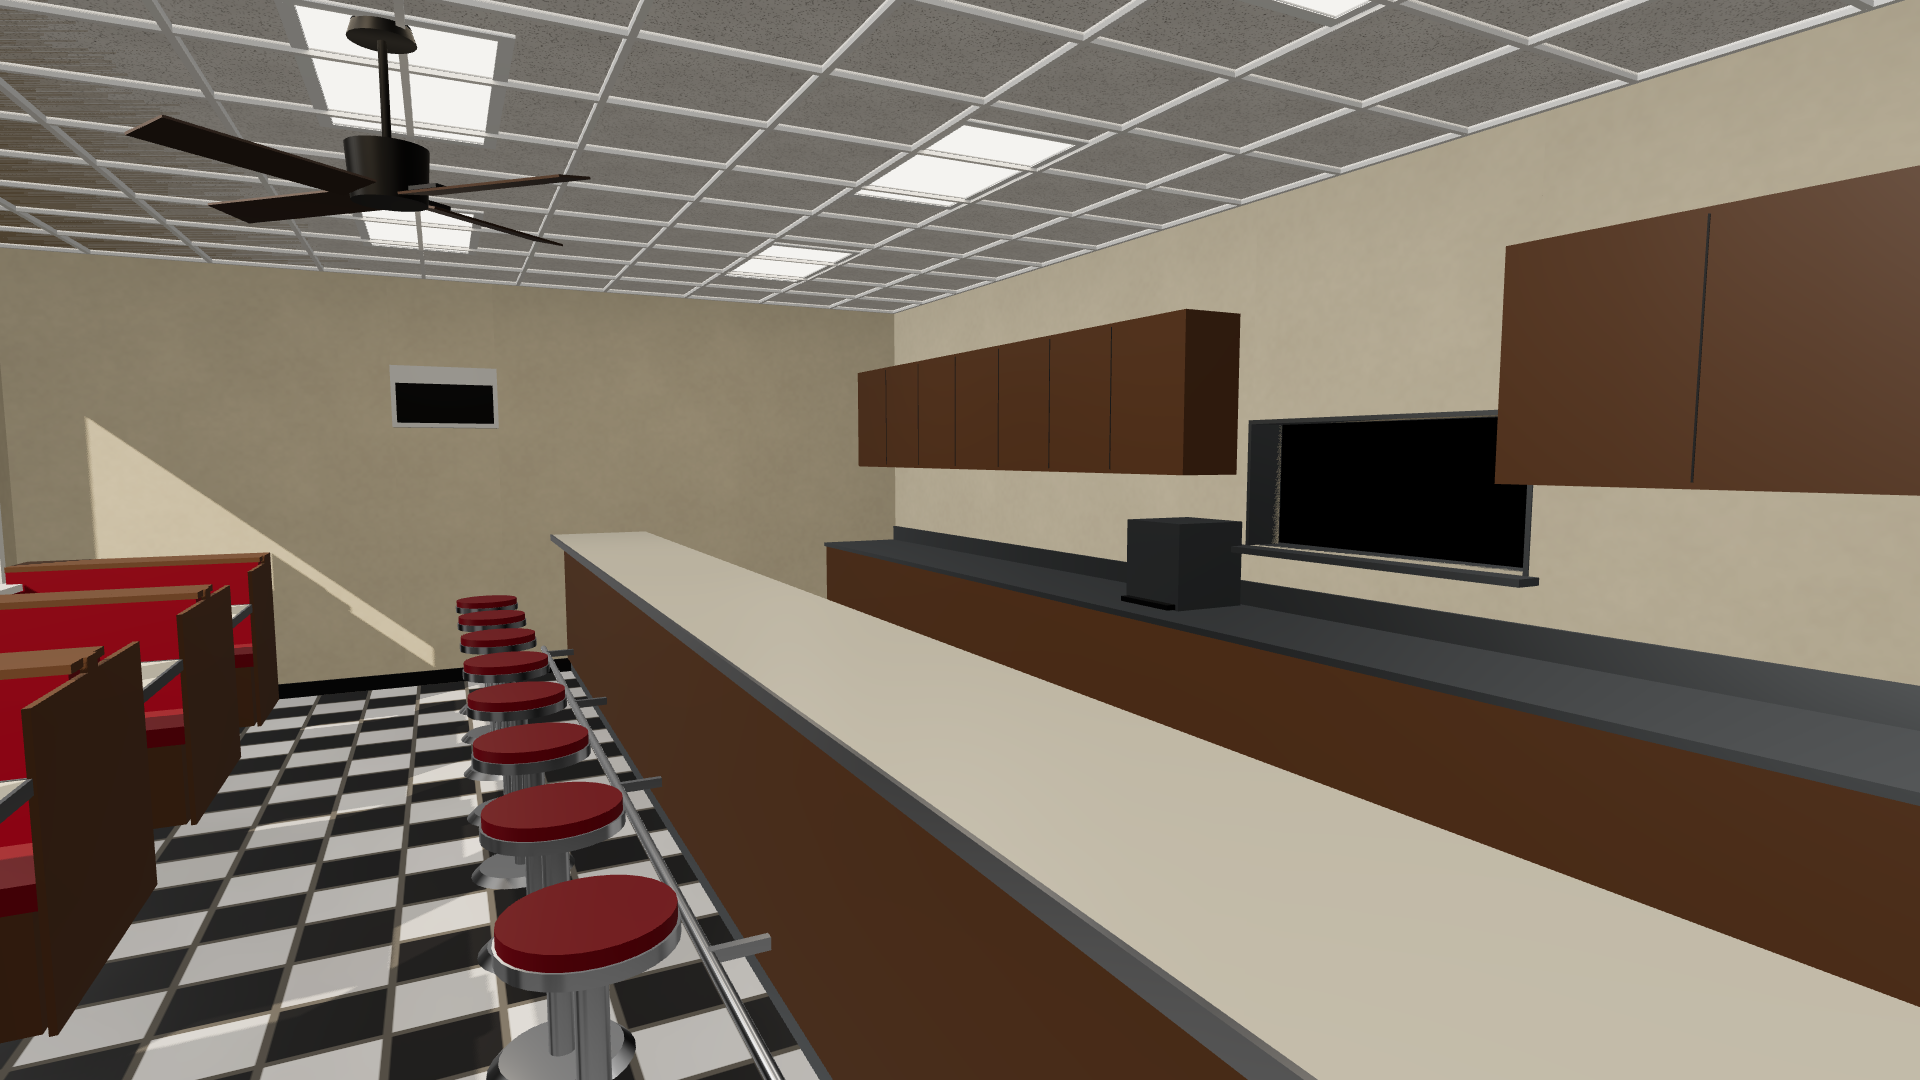
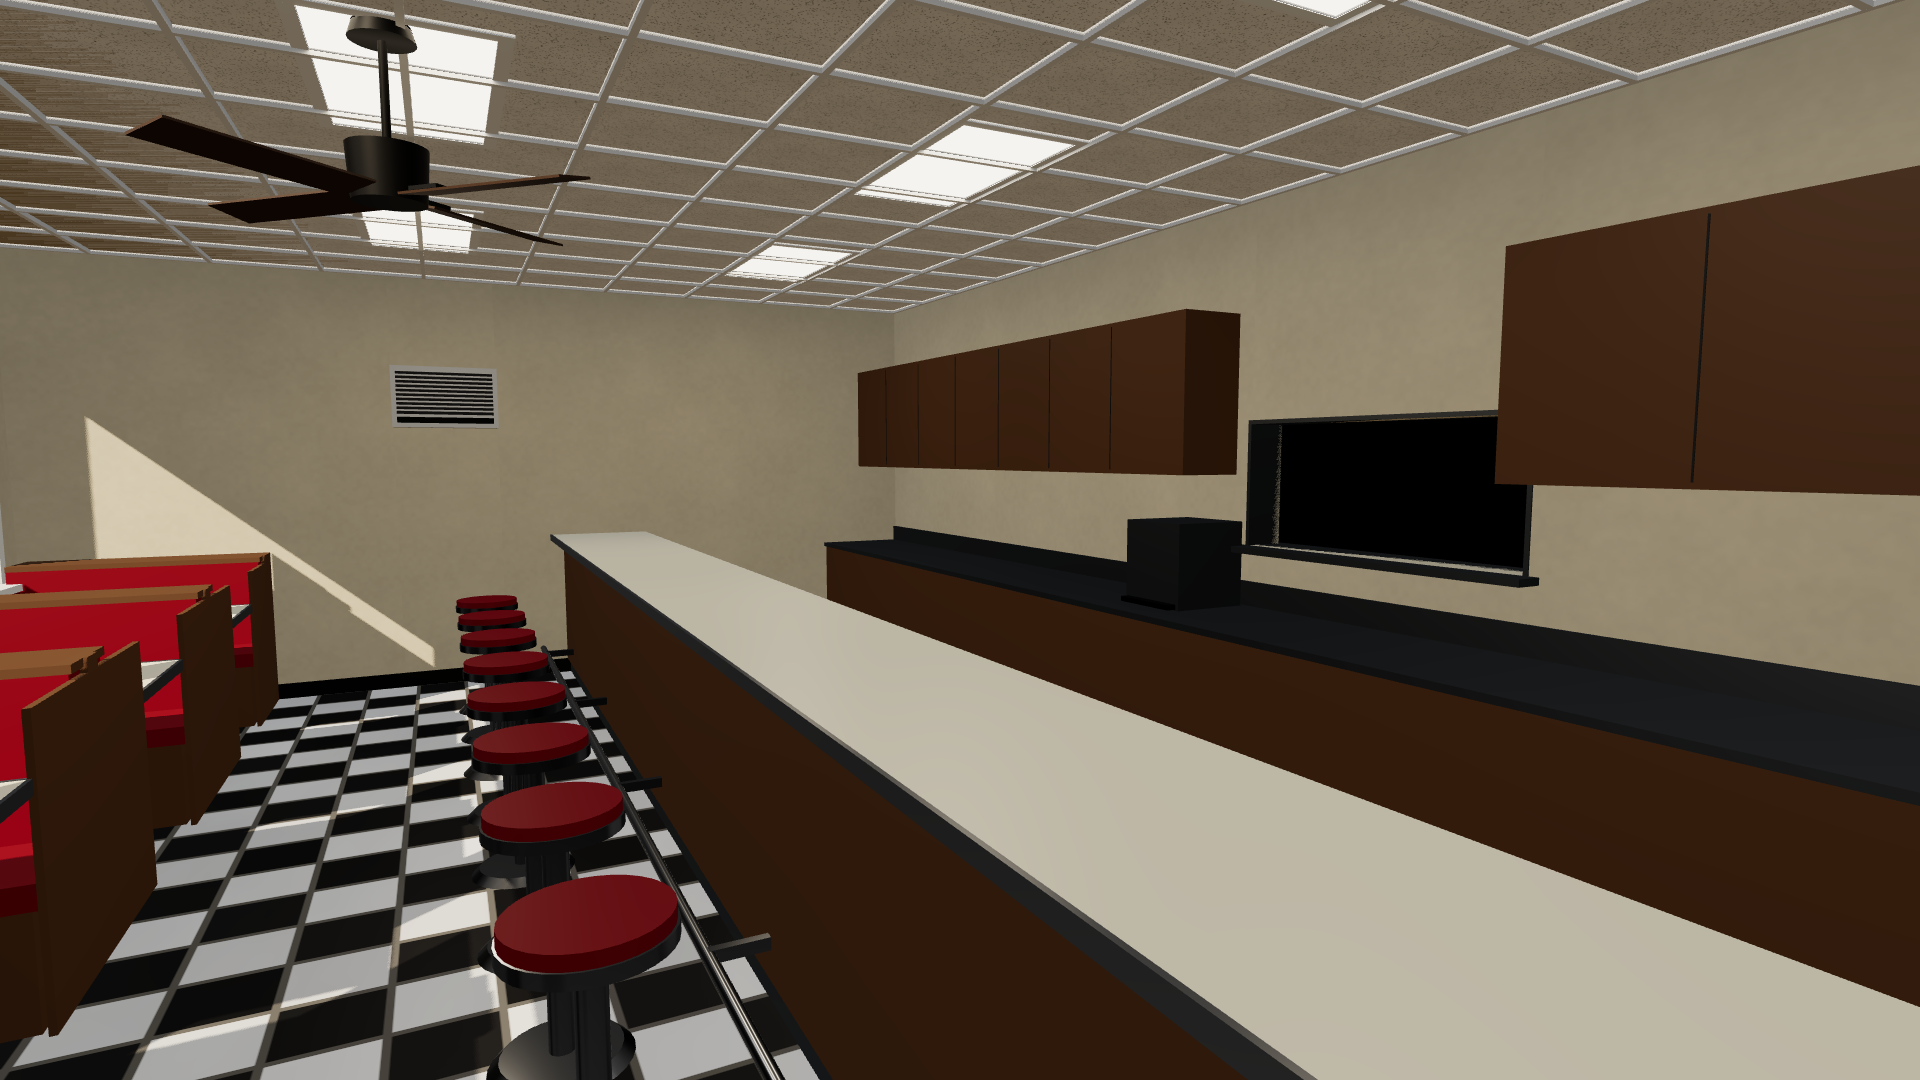
System 1: diner interior geometry and floor plan

diff --git a/src/scene/Lighting.ts b/src/scene/Lighting.ts
@@ -16,7 +16,7 @@ export function buildLighting(scene: THREE.Scene): LightingResult {
   const el = THREE.MathUtils.degToRad(35);
   const az = THREE.MathUtils.degToRad(38);
   const dir = new THREE.Vector3(Math.sin(az) * Math.cos(el), Math.sin(el), Math.cos(az) * Math.cos(el));
-  const sun = new THREE.DirectionalLight(0xfff1dc, 3.6);
+  const sun = new THREE.DirectionalLight(0xfff1dc, 5.0);
   sun.position.copy(dir).multiplyScalar(30).add(new THREE.Vector3(0, 1.2, 0));
   sun.target.position.set(0, 1.2, 0);
   sun.castShadow = true;
@@ -33,16 +33,22 @@ export function buildLighting(scene: THREE.Scene): LightingResult {
   sun.shadow.radius = 2;
   scene.add(sun, sun.target);
 
+  // `?nofill` renders the sun alone — a diagnostic for checking where direct
+  // light actually lands, used by the capture harness during review.
+  if (new URLSearchParams(location.search).has("nofill")) return { sun };
+
   // Sky / ground fill. Deliberately low: a real interior at 8 AM sits several
   // stops under the sunlit patches, and that contrast is the picture.
-  const hemi = new THREE.HemisphereLight(0xcfe0f5, 0x8f8272, 0.22);
+  // The warm ground colour stands in for bounce off the sunlit floor and
+  // tables until System 4 does it properly.
+  const hemi = new THREE.HemisphereLight(0xcfe0f5, 0xa8977f, 1.0);
   scene.add(hemi);
-  scene.add(new THREE.AmbientLight(0xfff2e2, 0.05));
+  scene.add(new THREE.AmbientLight(0xfff2e2, 0.1));
 
   // Fluorescent troffers: low-intensity rect area lights under each lens.
   RectAreaLightUniformsLib.init();
   for (const [x, z] of CEILING.troffers) {
-    const l = new THREE.RectAreaLight(0xfff0d8, 1.8, CEILING.troffer.w - 0.09, CEILING.troffer.d - 0.09);
+    const l = new THREE.RectAreaLight(0xfff0d8, 2.8, CEILING.troffer.w - 0.09, CEILING.troffer.d - 0.09);
     l.position.set(x, ROOM.height - 0.01, z);
     l.lookAt(x, 0, z);
     scene.add(l);

diff --git a/src/scene/Shell.ts b/src/scene/Shell.ts
@@ -126,9 +126,13 @@ export function buildShell(parent: THREE.Group, pal: Palette): { colliders: Merg
     const x0 = -halfX - 0.45, x1 = -halfX + 0.15;
     const z0 = acOpening.a0, z1 = acOpening.a1, y0 = acOpening.y0, y1 = acOpening.y1;
     b.box(pal.acUnit, [x0, y0, z0], [x1, y1, z1]);
-    // Interior face: dark louvre grille inset a few mm.
-    b.box(pal.darkMetal, [x1 - 0.004, y0 + 0.03, z0 + 0.03], [x1 + 0.004, y1 - 0.12, z1 - 0.03]);
-    b.box(pal.darkMetal, [x1 - 0.004, y0 + 0.03, z0 + 0.03], [x1 + 0.004, y0 + 0.06, z1 - 0.03]);
+    // Interior face: recessed grey louvre grille with horizontal slats, and a
+    // control strip along the bottom.
+    b.box(pal.kickPanel, [x1 - 0.004, y0 + 0.09, z0 + 0.03], [x1 + 0.002, y1 - 0.03, z1 - 0.03]);
+    for (let y = y0 + 0.11; y < y1 - 0.04; y += 0.03) {
+      b.box(pal.acUnit, [x1 + 0.002, y, z0 + 0.03], [x1 + 0.012, y + 0.012, z1 - 0.03]);
+    }
+    b.box(pal.darkMetal, [x1 - 0.002, y0 + 0.03, z0 + 0.03], [x1 + 0.004, y0 + 0.07, z1 - 0.03]);
   }
 
   /* ---------------- window frames, glass, sills, casing ---------------- */

diff --git a/src/scene/Diner.ts b/src/scene/Diner.ts
@@ -38,10 +38,11 @@ export class Diner {
     this.sun = buildLighting(scene).sun;
 
     // Neutral procedural environment so chrome and glass have something to
-    // reflect. Kept dim: the sun must stay the dominant source.
+    // reflect. RoomEnvironment is BRIGHT: at 0.25 it out-lit the sun and
+    // flattened every frame (measured with ?nofill). Reflection-only level here.
     const pmrem = new THREE.PMREMGenerator(renderer);
     scene.environment = pmrem.fromScene(new RoomEnvironment(), 0.04).texture;
-    scene.environmentIntensity = 0.25;
+    scene.environmentIntensity = 0.05;
     pmrem.dispose();
 
     scene.background = new THREE.Color(0x9cc0ea);

diff --git a/BUILD.md b/BUILD.md
@@ -1,0 +1,101 @@
+# Morning Diner — build notes
+
+A first-person walk through a small American roadside diner at 8 AM. Three.js
+only, zero external assets: every mesh, texture and (later) sound is generated in
+code. The target is a paused frame that reads as a photograph.
+
+## Architecture
+
+```
+src/
+  main.ts                 renderer, camera, frame-capped loop, resize, ?debug logging
+  scene/
+    layout.ts             THE floor plan: every dimension and position, in metres
+    Diner.ts              composes the room, owns colliders and per-frame animation
+    Shell.ts              floor, walls with punched openings, window frames/glass/sills,
+                          door frame, kitchen swing door, pass-through, baseboards,
+                          roof slab, kitchen void, exterior apron + lot
+    Booths.ts             5 booths (pedestal tables, vinyl benches, laminate dividers)
+    Counter.ts            counter + L-return, 8 instanced stools, back bar, cabinets
+    Ceiling.ts            tile plane, T-bar grid, 8 troffers, ceiling fan (rotor returned)
+    Door.ts               front door leaf on its own hinged Group (static until System 7)
+    Lighting.ts           PLACEHOLDER lighting; System 4 replaces this file
+  player/FirstPerson.ts   pointer-lock look, WASD at 1.4 m/s, eye 1.65 m, AABB sliding collision
+  core/
+    materials.ts          shared material palette (placeholders; System 5 owns the real set)
+    merge.ts              MergedBuilder: per-material geometry merging + collider registry
+    rng.ts                deterministic PRNG, tileable value/fBm noise
+  procedural/textures.ts  canvas textures: checker floor, painted wall, acoustic tile, asphalt, concrete
+  capture/pose.ts         window.__setPose / __SCENE_READY / __stats for the harness
+tools/
+  shoot.mjs               headless capture harness (build → serve :5210 → shoot poses)
+  gpu.mjs                 Chromium GPU flags and software-rasteriser assertion
+```
+
+Coordinates: +x runs the length of the room (door end is +x), +z is toward the
+parking lot (window wall at z = 3.25), +y up, origin at floor level mid-room.
+Interior 11.0 × 5.85 m, 2.9 m ceiling; kitchen void beyond z = -2.6.
+
+Draw calls sit around 70–90 per frame because everything static is merged per
+material (`MergedBuilder`) and the stools are `InstancedMesh`. Textures are
+≤ 2048 px, pixel ratio capped at 1.5. The loop is capped at ~120 fps and drops
+to ~10 fps when the tab is hidden or the window loses focus.
+
+## Pose / capture API
+
+Installed on `window` by `src/capture/pose.ts`:
+
+| Global | Meaning |
+|---|---|
+| `__SCENE_READY` | `true` after the second rendered frame |
+| `__setPose({x, y?, z, yaw, pitch})` | teleport the camera. Metres; angles in **degrees**. `yaw 0` looks toward −z (the kitchen wall), positive turns left (toward −x). `pitch` positive looks up. `y` defaults to eye height 1.65 |
+| `__stats()` | `{ calls, triangles, renderer }` from the live WebGL context |
+| `__APP` | `{ renderer, scene, camera }` for ad-hoc inspection |
+
+URL flags: `?debug` logs the GPU adapter and draw calls every 5 s; `?nofill`
+renders the sun alone (diagnostic).
+
+## Running the capture
+
+```
+npm install
+npm run build                      # tsc --noEmit && vite build
+node tools/shoot.mjs --tag=sys1    # → shots/sys1-{door,aisle,counter,booth,ceiling}.png
+```
+
+Options: `--no-build` (reuse `dist/`), `--poses=door,aisle`, `--query=nofill`.
+The harness serves `dist/` on `127.0.0.1:5210`, launches full Chromium
+(`channel: "chromium"`, new headless) with ANGLE/D3D11 flags so it lands on the
+RTX 4060, prints `[gpu] <renderer>` from the live three.js context and exits
+non-zero on SwiftShader or on any shader compile/link error. Browser and server
+are torn down on every exit path and the process always ends with
+`process.exit`. Frames are 1920 × 1080, DPR 1.
+
+Poses are defined at the top of `tools/shoot.mjs`.
+
+## Lessons recorded
+
+- `RoomEnvironment` is bright. At `environmentIntensity 0.25` it out-lit a
+  5.0-intensity sun and every frame came out flat; `?nofill` proved the fills
+  were not the cause. It now sits at 0.05, reflections only.
+- r185 deprecates `PCFSoftShadowMap` (it silently maps to PCF). Use
+  `PCFShadowMap` + `shadow.radius`.
+- D3D emits `X4122` precision *warnings* in the program info log for the
+  RectAreaLight LTC code. They are benign; the harness fails only on errors.
+
+## System status
+
+| # | System | Status |
+|---|---|---|
+| 1 | Interior geometry and floor plan | **built** |
+| 2 | Booth and counter detail | pending |
+| 3 | Windows, blinds, exterior view | pending |
+| 4 | Lighting | pending (placeholder sun/hemi/troffers in `Lighting.ts`) |
+| 5 | Materials and textures | pending (placeholder palette in `materials.ts`) |
+| 6 | Sound design | pending |
+| 7 | The 3 interactions (sit, pour coffee, open door) | pending — door is already a hinged Group; door leaf has no collider yet |
+| 8 | Post-processing and final polish | pending |
+
+Known System 1 simplifications: flat asphalt lot and plain sky colour outside
+(System 3), no blinds, coffee warmer is a stainless box, kitchen void holds two
+near-black silhouettes only, cabinet doors are flat panels with reveal lines.
